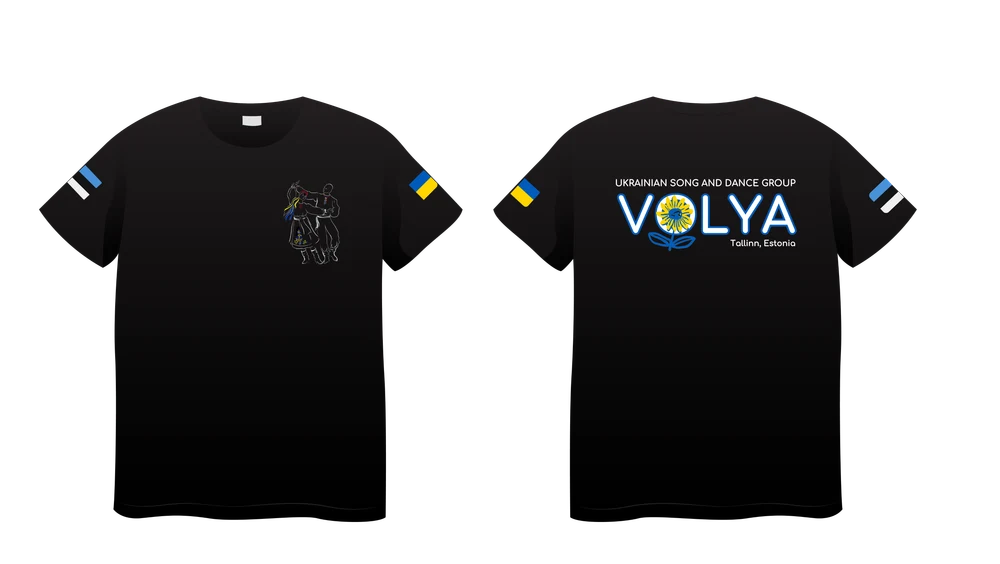
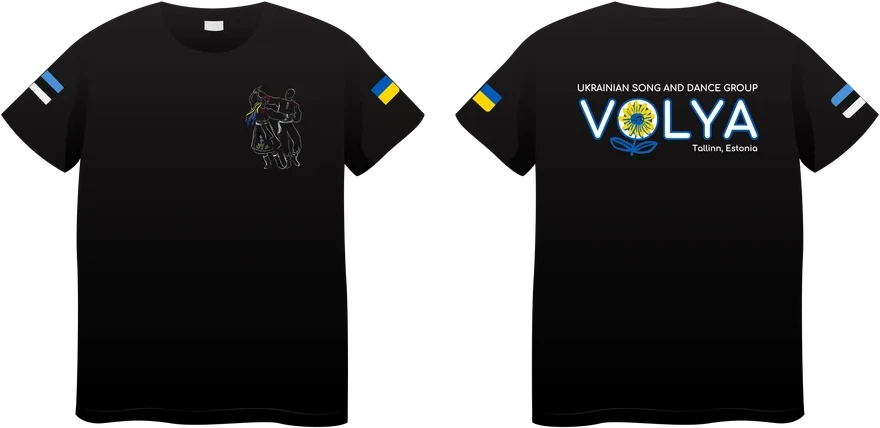
Three small merch and footer corrections
The ordering band led with «02 / ЯК ЗАМОВИТИ», a number left over from the
prototype's section counter — the heading beneath it says the same thing, so
the number goes, along with its dictionary key.

The legal entity and registry code sat under the phone chips in the contacts
column, where they read as another way to reach the ensemble. They belong with
the copyright line, and now sit there.

The T-shirts looked smaller than the other pieces because their cut-outs kept
up to 175px of transparent margin on each side — nearly a third of the frame
was nothing. Those margins are trimmed away, on the backpacks too, and the
media box's padding drops from 22 to 16px. The T-shirt now draws 251px wide
where it drew about 176px, inside the same card.

diff --git a/app/components/HomePage.tsx b/app/components/HomePage.tsx
@@ -82,7 +82,6 @@ export function HomePage({ locale, dict }: { locale: Locale; dict: Dictionary })
             {links.phones.map(phone => <ActionLink variant="chip" href={telHref(phone)} key={phone}>{phone}</ActionLink>)}
             <ActionLink variant="chip" href={links.telegram} external>{dict.footer.telegram}</ActionLink>
           </div>
-          <p>{organisation.name}<br />{organisation.registryCode}</p>
         </div>
         <div>
           <small>{dict.footer.navigationTitle}</small>
@@ -95,7 +94,14 @@ export function HomePage({ locale, dict }: { locale: Locale; dict: Dictionary })
             <ActionLink variant="chip" href={links.facebook} external>Facebook</ActionLink>
           </div>
         </div>
-        <div className="footer-legal">{lines(dict.footer.legal)}<br /><br />{dict.footer.madeWith}</div>
+        {/* Copyright, the legal entity behind the ensemble, and the sign-off. */}
+        <div className="footer-legal">
+          {lines(dict.footer.legal)}
+          <br /><br />
+          {organisation.name}<br />{organisation.registryCode}
+          <br /><br />
+          {dict.footer.madeWith}
+        </div>
       </footer>
 
       <BottomNav locale={locale} dict={dict} page="/" />

diff --git a/app/i18n/uk.ts b/app/i18n/uk.ts
@@ -155,7 +155,6 @@ export const uk: Dictionary = {
     headingEm: "VOLYA.",
     text: "Мерч VOLYA — для репетицій, прогулянок і всіх моментів, які хочеться прожити разом.",
     collectionTitle: "Обирай своє.",
-    orderLabel: "02 / ЯК ЗАМОВИТИ",
     orderTitle: "Сподобалась річ?",
     orderText: "Напиши нам, що саме хочеш замовити. Ми уточнимо розмір, наявність і домовимося про передачу в Таллінні.",
     orderCta: "Замовити мерч",

diff --git a/app/i18n/en.ts b/app/i18n/en.ts
@@ -155,7 +155,6 @@ export const en: Dictionary = {
     headingEm: "merch.",
     text: "VOLYA merch — for rehearsals, for walks and for every moment worth living together.",
     collectionTitle: "Pick yours.",
-    orderLabel: "02 / HOW TO ORDER",
     orderTitle: "Seen something you like?",
     orderText: "Write to us with what you would like to order. We will confirm the size and stock, and arrange the hand-over in Tallinn.",
     orderCta: "Order merch",

diff --git a/app/i18n/et.ts b/app/i18n/et.ts
@@ -158,7 +158,6 @@ export const et: Dictionary = {
     headingEm: "merch.",
     text: "VOLYA merch — proovideks, jalutuskäikudeks ja kõigiks hetkedeks, mida tahaks koos elada.",
     collectionTitle: "Vali oma.",
-    orderLabel: "02 / KUIDAS TELLIDA",
     orderTitle: "Meeldis midagi?",
     orderText: "Kirjuta meile, mida täpselt soovid tellida. Täpsustame suuruse ja olemasolu ning lepime Tallinnas üleandmise kokku.",
     orderCta: "Telli merch",

diff --git a/app/components/MerchPage.tsx b/app/components/MerchPage.tsx
@@ -36,7 +36,6 @@ export function MerchPage({ locale, dict }: { locale: Locale; dict: Dictionary }
 
       <section className="order-note">
         <div>
-          <p className="section-number">{copy.orderLabel}</p>
           <h2>{copy.orderTitle}</h2>
         </div>
         <div className="order-copy">

diff --git a/app/i18n/types.ts b/app/i18n/types.ts
@@ -162,7 +162,6 @@ export interface Dictionary {
     headingEm: string;
     text: string;
     collectionTitle: string;
-    orderLabel: string;
     orderTitle: string;
     orderText: string;
     orderCta: string;

diff --git a/app/components/merch.css b/app/components/merch.css
@@ -130,7 +130,7 @@
   box-sizing: border-box;
   width: 100%;
   height: 100%;
-  padding: 22px;
+  padding: 16px;
   object-fit: contain;
   object-position: center;
 }
